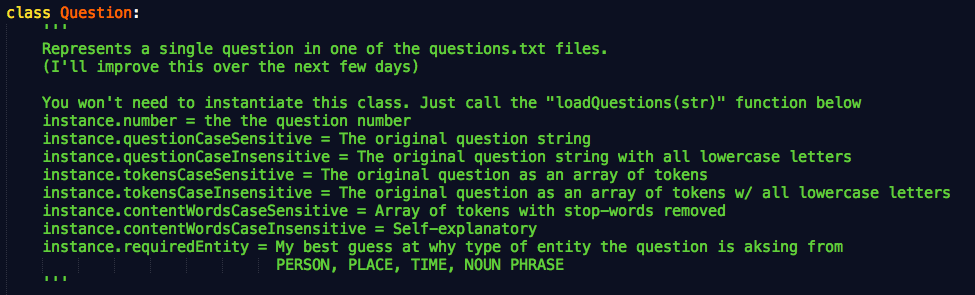
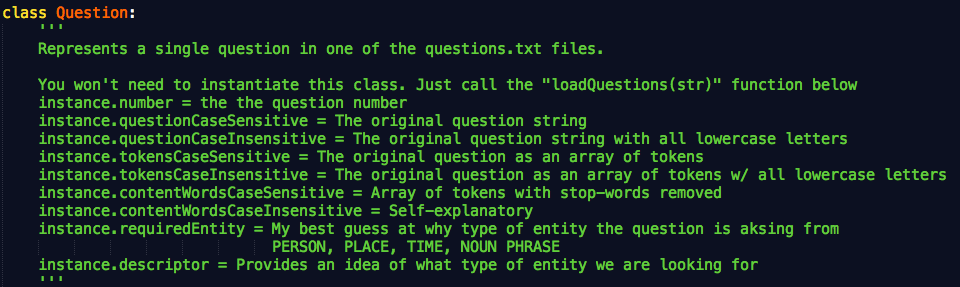
More on the writeup

Changed region(s): [[0.0312, 0.2787, 1.0, 0.9756], [0.0312, 0.1394, 0.625, 0.2509], [0.0, 0.0279, 0.1562, 0.1115]]

diff --git a/PA2/report/writeup.tex b/PA2/report/writeup.tex
@@ -50,21 +50,21 @@ This class provides our representation of the question that has been asked. The 
 We pull the text of the question from \texttt{questions.txt} and store its unique identifier, part of speech tags, and tokenized (both case-sensitive and case-insensitive) versions of the original text. All of this is done in the constructor of the \texttt{Question} class using the nltk library.
 
 \subsubsection{Infer the Nature of the Question}
-The work done in inferring the nature of the question is performed in the \texttt{Question} class, and the result is stored in the \texttt{descriptor} property. The \texttt{descriptor} property on a \texttt{Question} instance is of type \texttt{Descriptor}, and stores the type of entity that we are looking for (), along with some tokens in the tokenized question string that we believe are relevant.\\
+The work done in inferring the nature of the question is performed in the \texttt{Question} class, and the result is stored in the \texttt{descriptor} property of that class. The \texttt{descriptor} property on a \texttt{Question} instance is of type \texttt{Descriptor}, and stores the type of entity that we are looking for, along with some tokens in the tokenized question string that we believe are relevant.\\
 
-In the \texttt{Question} class, we infer the nature of the question and its most relevant tokens by pattern matching. For example, upon inspecting the question files, we found that when the word \textit{"who"} appears in a question, then we are most likely looking for a person in the answer. We found similar patterns for the words \textit{"where"},  \textit{"when"},  \textit{"how many"},  \textit{"how much"}, and  \textit{"what"}.\\
+We infer the nature of the question and its most relevant tokens by pattern matching. For example, upon inspecting the question files, we found that when the word \textit{"who"} appears in a question, we are most likely looking for a person in the answer. We found similar patterns for the words/phrases \textit{"where"},  \textit{"when"},  \textit{"how many"},  \textit{"how much"}, and  \textit{"what"}.\\
 
 Given the appearance of those terms, we define the type of entity that is required in the answer (see the \texttt{REQUIREDENTITIES} map in the \texttt{Question} class).\\
 
-Once we know the required type of entity, we attempt to infer descriptive terms in the question for its required entity. Those inferences made are in the \texttt{get\textless Entity \textgreater Descriptor} functions in the \texttt{Question} class, by pattern matching on the part-of-speech tags of the question.\\
+Once we know the required type of entity, we attempt to infer relevant and descriptive tokens in the question for its required entity. Those inferences made are in the \texttt{get\textless Entity\textgreater Descriptor} functions in the \texttt{Question} class by pattern matching on the part-of-speech tags of the question.\\
 
 \subsection{Passage Retrieval}
-The overall interface of this step is as follows: we receive a question (of type \texttt{Question}, available in \texttt{question\_formatter.py}) and provide an instance of the \texttt{PassageRetrieval} class, which stores the most-similar passage in the \texttt{top\_passage} property.
+The overall interface of this step is as follows: we receive a question (of type \texttt{Question}, available in \texttt{question\_formatter.py}) and provide an instance of the \texttt{PassageRetrieval} class, which stores the most-similar passages for the top 10 documents in the \texttt{passages\_top\_10\_docs} property.
 The steps taken during this step can be simplified as follows:
 \begin{enumerate}
 \item \textbf{Documents:} Process all the documents for a given question. In doing so, extract relevant text, identifiers, split into passages, etc.
-\item \textbf{Term Frequency-Inverse Document Frequency:} Calculate the similarity in term frequency-inverse document frequency vectors between all passages and the question.
-\item \textbf{Ranked Passages: }Rank passages in the top 10 documents according to their similarity to the question in terms of tf-idf.
+\item \textbf{Term Frequency-Inverse Document Frequency:} Calculate the similarity between term frequency-inverse document frequency vectors between all passages and the question.
+\item \textbf{Ranked Passages: }Return the top passages of the 
 \end{enumerate}
 
 Examining each of these more closely we have:\\
@@ -74,8 +74,7 @@ Examining each of these more closely we have:\\
     \includegraphics[width=1.0\textwidth]{images/document.png}
     \caption{Overview of the \texttt{Document} class.}
 \end{figure}
-\textit{Note: Processing the documents proved not to be as simple as we initially planned. The vast majority of the documents follow a similar markup structure, but a handful of them differed from the overall general structure. In those cases, we ignore the documents (don't include them in any of our subsequent system steps), as we found that those documents tend to be ranked low anyway.}
-
+\textit{Note: Processing the documents proved not to be as simple as we initially planned. The vast majority of the documents follow a similar markup structure, but a handful of them differed from the overall general structure. In those cases, we ignore the documents (don't include them in any of our subsequent system steps), as we found that those documents tend to be ranked low anyway.}\\
 
 We begin processing the documents by pulling all of the text from the appropriate \texttt{top\_docs.$x$} file provided (with respect to dev or test) and separating it into entire documents, \texttt{qids} and all. Then, given the text of a document, we extract:
 \begin{enumerate}
@@ -83,13 +82,12 @@ We begin processing the documents by pulling all of the text from the appropriat
 \item The \textit{docno} (unique document identifier).
 \item The relevancy \textit{score} of the document, as determined by the generator of the top\_docs documents.
 \item The body (\textit{text}) of the document.
-\item For the purpose of later calculations, we tokenize the document into sentences (\textit{sentences \text{and} sentences\_w\_case}), and then those sentences into an array of tokens, with punctuation removed
+\item For the purpose of later calculations, we tokenize the document into sentences (\textit{sentences} and \textit{sentences\_w\_case}), and then those sentences into an array of tokens, with punctuation removed
 \end{enumerate}
 
-For the last extraction point, we remove punctuation because in a Question Answer system, the structure of the question is often different than the structure of the answer, and we later use a tf-idf similarity measure, so the punctuation has little value, and may even hurt those calculations as certain punctuation doesn't occur frequently enough to be considered a stop word and would therefore have some effect on those final calculations.
+For the last extraction step, we remove punctuation because in a Question Answer system, the structure of the question is often different than the structure of the answer, so it would provide us little additional information. Also, we later use a tf-idf similarity measure so the punctuation may even hurt those calculations as certain punctuation doesn't occur frequently enough to be considered a stop word and would therefore have some effect on those final calculations.\\
 
-
-Instead of defining a passage as a 10-gram, as is described in the baseline system, we define a passage as a sentence. Our justification for this is that a question is more likely to be contained in a sentence, as opposed to a sequence of 10 words, which might be spread over multiple sentences, including sentence fragments. This way, we were also able to simplify our Answer Formation step by knowing more of the general structure of the top-ranked passages that make it to that step.
+Instead of defining a passage as a 10-gram, as is described in the baseline system, we define a passage as a sentence. Our justification for this is that the answer to a question is more likely to be contained in a sentence, as opposed to a sequence of 10 words, which might be spread over multiple sentences, including sentence fragments. This way, we were also able to simplify our Answer Formation step by knowing more of the general structure of the top-ranked passages that make it to that step.
 
 \subsubsection{Tf-idf}
 \begin{figure}[h]
@@ -98,9 +96,9 @@ Instead of defining a passage as a 10-gram, as is described in the baseline syst
     \caption{Overview of the \texttt{TFIDF} class.}
 \end{figure}
 
-\textit{Note: In this implementation of tf-idf calculation, we do use vectors the length of the number of unique terms in the document. Instead, for each text fragment (i.e. question text or document passage), we only include the terms involved in that particular text fragment to avoid having massive arrays with a ton of 0 counts. So in calculating the cosine similarity of two tf-idf vectors, we just infer count 0 for any terms that don't appear in the tf-idf vector.}\\
+\textit{Note: In this implementation of tf-idf calculation, we do not use vectors the length of the number of unique terms in the document. Instead, for each text fragment (i.e. question text or document passage), we only include the terms involved in that particular text fragment to avoid having massive arrays with a ton of 0 term frequencies. So in calculating the cosine similarity of two tf-idf vectors, we just infer count 0 for any terms that don't appear in both of the tf-idf vectors.}\\
 
-We decided to create our own tf-idf class instead of using a library so that we had more flexibility in terms of our overall interface. In this class, we first calculate the total term frequency of each unique term in the corpus (all relevant documents and the question). We do this using Python's Counter class to simplify the number of loops we would normally have to use. After this, we calculate the tf-idf vector of the question. We calculate the tf-idf vector of the question first so that we only have to worry about storing that vector, and can then go on to compute the tf-idf vectors of each passage and immediately find the similarity score with the question, so that we can avoid having to store the tf-idf vectors of every passage as an intermediate step. Doing this sped up our QA system.
+We decided to create our own tf-idf class instead of using a library so that we had more flexibility in terms of our overall interface. In this class, we first calculate the total term frequency of each unique term in the corpus (all relevant documents and the question). We do this using Python's Counter class to simplify the number of loops we would normally have to use. After this, we calculate the tf-idf vector of the question. We calculate the tf-idf vector of the question first so that we only have to worry about storing that vector, and can then go on to compute the tf-idf vectors of each passage and immediately find the similarity score with the question, so that we can avoid having to store the tf-idf vectors of every passage as an intermediate step to eventually finding the cosine similarity. Doing this sped up our QA system.
 
 \subsubsection{Top Ten Passages}
 As we calculate tf-idf similarity scores between each passage in each document and the question, we keep track of only the top passage and its similarity score for each document for later calculations of what passage we should send to the Answer Formation step in our system.
@@ -110,7 +108,7 @@ After computing these scores, we examine the most-related passages of the top te
 \subsection{Answer Formation}
 % TODO Sofo
 \subsubsection{Top Passage}
-This step has the largest impact on the final "top passages". Our rules are as follows:\\
+This step has the largest impact on the final "top passages". Our rules are as follows:
 \begin{itemize}
 \item Initial ranking of each passage is the same of the ranking of its corresponding document in the top 10.
 \item Length of the longest sequence of overlapping terms between passage and question:

diff --git a/PA2/passage_retrieval.py b/PA2/passage_retrieval.py
@@ -128,7 +128,7 @@ class TFIDF:
     document frequency of its question and document passages. It is left to the
     PassageRetrieval instance to then use this information to select a most-similar passage.
 
-    It is worth noting that in this implementation of tf-idf calculation, we do
+    It is worth noting that in this implementation of tf-idf calculation, we do not
     use vectors the length of the number of unique terms in the document. Instead,
     for each text fragment (i.e. question text or document passage), we only
     include the terms involved in that particular text fragment to avoid having

diff --git a/PA2/question_formatter.py b/PA2/question_formatter.py
@@ -8,7 +8,6 @@ class Descriptor:
 class Question:
     '''
     Represents a single question in one of the questions.txt files. 
-    (I'll improve this over the next few days)
 
     You won't need to instantiate this class. Just call the "loadQuestions(str)" function below
     instance.number = the the question number
